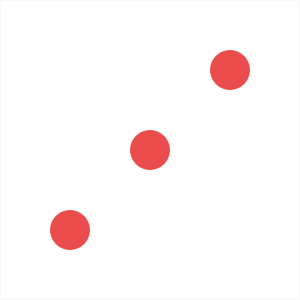
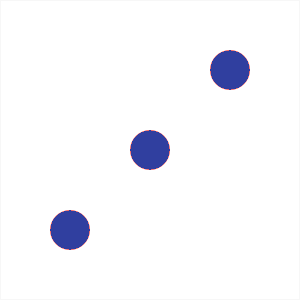
feat: Modificar imagens dos dados.

Changed region(s): [[0.69, 0.15, 0.84, 0.3], [0.42, 0.42, 0.57, 0.57], [0.15, 0.69, 0.3, 0.84]]

diff --git a/style.css b/style.css
@@ -66,7 +66,8 @@ body {
     text-align: center;
     font-size: 80px;
     font-weight: 100;
-    color: #EB4D4D;
+    /* color: #EB4D4D; */
+    color: #303F9F;
     margin-bottom: 130px;
 }
 
@@ -77,14 +78,16 @@ body {
     content: "\2022";
     font-size: 47px;
     position: absolute;
-    color: #EB4D4D;
+    /* color: #EB4D4D; */
+    color: #303F9F;
     top: -7px;
     right: 10px;
 
 }
 
 .player-current-box {
-    background-color: #EB4D4D;
+    /* background-color: #EB4D4D; */
+    background-color: #303F9F;
     color: #fff;
     width: 40%;
     margin: 0 auto;
@@ -96,7 +99,7 @@ body {
     text-transform: uppercase;
     margin-bottom: 10px;
     font-size: 12px;
-    color: #222;
+    color: #fff;
 }
 
 .player-current-score {
@@ -127,7 +130,8 @@ button:focus {
 }
 
 i {
-    color: #EB4D4D;
+    /* color: #EB4D4D; */
+    color: #303F9F;
     display: inline-block;
     margin-right: 15px;
     font-size: 32px;
@@ -151,4 +155,5 @@ i {
 }
 
 .winner { background-color: #f7f7f7; }
-.winner .player-name { font-weight: 300; color: #EB4D4D; }
+/* .winner .player-name { font-weight: 300; color: #EB4D4D; } */
+.winner .player-name { font-weight: 300; color: #303F9F; }

diff --git a/index.html b/index.html
@@ -10,7 +10,10 @@
     </head>
 
     <body>
+
         <div class="wrapper clearfix">
+
+
             <div class="player-0-panel active">
                 <div class="player-name" id="name-0">Player 1</div>
                 <div class="player-score" id="score-0">43</div>
